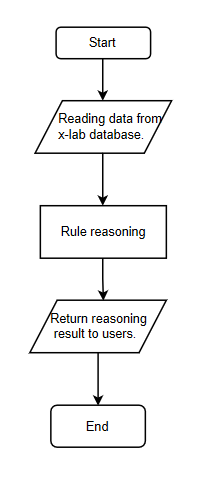
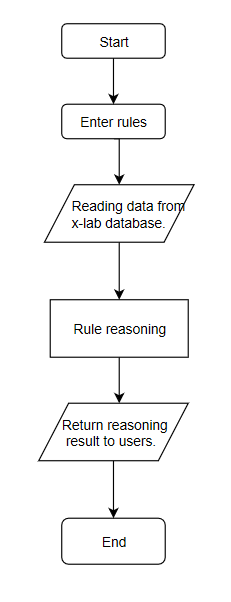
refactor rulereason

Changed region(s): [[0.1493, 0.0311, 0.8657, 0.9627]]

diff --git a/src/main/java/com/tongji/knowledgereasoning/service/RuleReasonerServiceImp.java b/src/main/java/com/tongji/knowledgereasoning/service/RuleReasonerServiceImp.java
@@ -62,7 +62,7 @@ public class RuleReasonerServiceImp implements RuleReasonerService {
 
     }
 
-    public String neo4jReasoning(String rule) {
+    public String neo4jReasoning(String rules) {
 
         Model model = ModelFactory.createDefaultModel();
 
@@ -74,18 +74,41 @@ public class RuleReasonerServiceImp implements RuleReasonerService {
                 String predicate = rs.getString(2);
                 String object = rs.getString(3);
 
-                String[] p = predicate.split("__");
-                predicate = p[p.length - 1];
-                //System.out.println(predicate);
+                if(predicate.equals("ns1__contains")){
+                    predicate = "http://pods/10.60.38.181/constains";
+                }else if(predicate.equals("ns1__deployed_in")){
+                    predicate = "http://pods/10.60.38.181/deployed_in";
+                }else if(predicate.equals("ns1__provides")){
+                    predicate = "http://pods/10.60.38.181/provides";
+                }else if(predicate.equals("ns2__profile")){
+                    predicate = "http://services/10.60.38.181/provides";
+                }else if(predicate.equals("ns3__profile")){
+                    predicate = "http://containers/10.60.38.181/profile";
+                }else if(predicate.equals("ns4__has")){
+                    predicate = "http://environment/10.60.38.181/has";
+                }else if(predicate.equals("ns5__manage")){
+                    predicate = "http://servers/10.60.38.181/manage";
+                }else if(predicate.equals("ns6__supervises")){
+                    predicate = "http://namespace/10.60.38.181/supervises";
+                }else if(predicate.equals("rdfs__domain")){
+                    predicate = "http://www.w3.org/2000/01/rdf-schema#domain";
+                }else if(predicate.equals("rdfs__range")){
+                    predicate = "http://www.w3.org/2000/01/rdf-schema#range";
+                }else if(predicate.equals("rdfs__subClassOf")){
+                    predicate = "http://www.w3.org/2000/01/rdf-schema#subClassOf";
+                }else if(predicate.equals("rdfs__subPropertyOf")){
+                    predicate = "http://www.w3.org/2000/01/rdf-schema#subPropertyOf";
+                }
+
                 //System.out.println(predicate);
                 model.add(model.createResource(subject), model.createProperty(predicate), model.createResource(object));
             }
-            //writeToFile(model,"data/neo4jdata.ttl");
+            writeToFile(model,"data/Neo4jData.ttl");
         } catch (Exception e) {
             e.printStackTrace();
         }
 
-        Model modelAfterReason = reasoner(model, rule);
+        Model modelAfterReason = reasoner(model, rules);
         String triples = TriplesToJson(modelAfterReason);
         String ttlInsert = "CALL semantics.importRDF('file:///F:/IDEA/2019-XLab-KnowledgeReasoning/data/RuleReasoning/RuleReasonResult.ttl','Turtle', {shortenUrls: true})";
         neoDao.updateTriplesInNeo4j(ttlInsert);
@@ -98,30 +121,6 @@ public class RuleReasonerServiceImp implements RuleReasonerService {
         InfModel inf = ModelFactory.createInfModel(reasoner, model);
         return inf.getDeductionsModel();
     }
-
-    /*
-        private Model modelAfterReason(Model model){
-
-            StmtIterator itr = model.listStatements();
-            Model modelAfterReason = ModelFactory.createDefaultModel();
-            while (itr.hasNext()) {
-                Statement nowStatement = itr.nextStatement();
-
-                String subject = nowStatement.getSubject().toString();
-                String predicate = nowStatement.getPredicate().toString();
-                String object = nowStatement.getObject().toString();
-
-                //set predicate
-                predicate=subject.substring(0,subject.indexOf("1"))+"10.60.38.181/"+predicate;
-
-                modelAfterReason.add(modelAfterReason.createResource(subject),
-                        modelAfterReason.createProperty(predicate),
-                        modelAfterReason.createResource(object));
-                writeToFile(modelAfterReason,"data/RuleReasoning/RuleReasonResult.ttl");
-            }
-            return modelAfterReason;
-        }
-     */
 
     private String TriplesToJson(Model model) {
         JSONArray triples = new JSONArray();
@@ -170,4 +169,30 @@ public class RuleReasonerServiceImp implements RuleReasonerService {
         model.write(ruleReasonResult, "TURTLE");    //写入文件,默认是xml方式,可以自己指定
 
     }
+
+
+    /*
+        private Model modelAfterReason(Model model){
+
+            StmtIterator itr = model.listStatements();
+            Model modelAfterReason = ModelFactory.createDefaultModel();
+            while (itr.hasNext()) {
+                Statement nowStatement = itr.nextStatement();
+
+                String subject = nowStatement.getSubject().toString();
+                String predicate = nowStatement.getPredicate().toString();
+                String object = nowStatement.getObject().toString();
+
+                //set predicate
+                predicate=subject.substring(0,subject.indexOf("1"))+"10.60.38.181/"+predicate;
+
+                modelAfterReason.add(modelAfterReason.createResource(subject),
+                        modelAfterReason.createProperty(predicate),
+                        modelAfterReason.createResource(object));
+                writeToFile(modelAfterReason,"data/RuleReasoning/RuleReasonResult.ttl");
+            }
+            return modelAfterReason;
+        }
+     */
+
 }

diff --git a/src/main/java/com/tongji/knowledgereasoning/service/QueryService.java b/src/main/java/com/tongji/knowledgereasoning/service/QueryService.java
@@ -8,6 +8,7 @@ import org.springframework.beans.factory.annotation.Autowired;
 import org.springframework.stereotype.Service;
 
 
+import java.io.ByteArrayOutputStream;
 import java.util.ArrayList;
 import java.util.List;
 
@@ -25,15 +26,37 @@ public class QueryService {
         java.sql.ResultSet rs = neoDao.getTriples();
 
         try {
+
             while (rs.next()) {
                 String subject = rs.getString(1);
                 String predicate = rs.getString(2);
                 String object = rs.getString(3);
 
-//                String[] p = predicate.split("__");
-//                predicate = p[p.length - 1];
-                // System.out.println(predicate);
-                //System.out.println(predicate);
+                if(predicate.equals("ns1__contains")){
+                    predicate = "http://pods/10.60.38.181/constains";
+                }else if(predicate.equals("ns1__deployed_in")){
+                    predicate = "http://pods/10.60.38.181/deployed_in";
+                }else if(predicate.equals("ns1__provides")){
+                    predicate = "http://pods/10.60.38.181/provides";
+                }else if(predicate.equals("ns2__profile")){
+                    predicate = "http://services/10.60.38.181/provides";
+                }else if(predicate.equals("ns3__profile")){
+                    predicate = "http://containers/10.60.38.181/profile";
+                }else if(predicate.equals("ns4__has")){
+                    predicate = "http://environment/10.60.38.181/has";
+                }else if(predicate.equals("ns5__manage")){
+                    predicate = "http://servers/10.60.38.181/manage";
+                }else if(predicate.equals("ns6__supervises")){
+                    predicate = "http://namespace/10.60.38.181/supervises";
+                }else if(predicate.equals("rdfs__domain")){
+                    predicate = "http://www.w3.org/2000/01/rdf-schema#domain";
+                }else if(predicate.equals("rdfs__range")){
+                    predicate = "http://www.w3.org/2000/01/rdf-schema#range";
+                }else if(predicate.equals("rdfs__subClassOf")){
+                    predicate = "http://www.w3.org/2000/01/rdf-schema#subClassOf";
+                }else if(predicate.equals("rdfs__subPropertyOf")){
+                    predicate = "http://www.w3.org/2000/01/rdf-schema#subPropertyOf";
+                }
 
                 model.add(model.createResource(subject), model.createProperty(predicate), model.createResource(object));
             }
@@ -49,8 +72,8 @@ public class QueryService {
 //                        "<http://services/10.60.38.181/sock-shop/orders>" + " ^pods_rel:provides / ( pods_rel:deployed_in* | pods_rel:contains* ) ?o ." +
 //                        "}");
 
-//
-//        Query query = QueryFactory.create(
+
+//        Query querys = QueryFactory.create(
 //                "PREFIX pods_rel: " + "<http://pods/10.60.38.181/> \n" +
 //                        "SELECT * " +
 //                        "{" +
@@ -61,12 +84,20 @@ public class QueryService {
         // 执行查询，获得结果
         QueryExecution qe = QueryExecutionFactory.create(propertyPathQuery, model);
         org.apache.jena.query.ResultSet resultSet = qe.execSelect();//select 类型
-        while (resultSet.hasNext()) {
-            QuerySolution qs = resultSet.next();
-            String object = qs.get("o").toString();
-            queryResult.add(object);
+        if(query.contains("?o")) {
+            while (resultSet.hasNext()) {
+                QuerySolution qs = resultSet.next();
+                String object = qs.get("o").toString();
+                queryResult.add(object);
+            }
+        }else if(query.contains("?s")){
+            while (resultSet.hasNext()) {
+                QuerySolution qs = resultSet.next();
+                String object = qs.get("s").toString();
+                queryResult.add(object);
+            }
         }
-//
+
 //        ByteArrayOutputStream outputStream = new ByteArrayOutputStream();
 //        ResultSetFormatter.outputAsJSON(outputStream, resultSet);
 //        String result = new String(outputStream.toByteArray());

diff --git a/src/main/java/com/tongji/knowledgereasoning/service/MetadataLayerConstructService.java b/src/main/java/com/tongji/knowledgereasoning/service/MetadataLayerConstructService.java
@@ -192,6 +192,46 @@ public class MetadataLayerConstructService {
         //Operations.outputAllTriples(infModel);
 
         System.out.println("\n");
+        //属性路径查询表达式
+        Query propertyPathQuery = QueryFactory.create(
+                "PREFIX pods_rel: " + "<http://pods/10.60.38.181/> \n" +
+                        "SELECT * " +
+                        "{" +
+                        "<http://services/10.60.38.181/sock-shop/orders>" + " ^pods_rel:provides / ( pods_rel:deployed_in* | pods_rel:contains* ) ?o ." +
+                        "}");
+        QueryExecution qe = QueryExecutionFactory.create(propertyPathQuery, infModel);
+        ResultSet rs1 = qe.execSelect();
+        while (rs1.hasNext()) {
+            QuerySolution qs = rs1.next();
+            String object = qs.get("o").toString();
+            System.out.println(object);
+        }
+
+        System.out.println("\n");
+        String rules =
+                "[rule1: (?X <http://pods/10.60.38.181/provides> ?Y) -> (?X <http://10.60.38.181/KGns/relates> ?Y)]\n" +
+                        "[rule2: (?X <http://10.60.38.181/KGns/relates> ?Y) (?X <http://pods/10.60.38.181/deployed_in> ?Z) -> (?Z <http://10.60.38.181/KGns/relates> ?Y)]\n" +
+                        "[rule3: (?X <http://10.60.38.181/KGns/relates> ?Y) (?X <http://pods/10.60.38.181/contains> ?Z) -> (?Z <http://10.60.38.181/KGns/relates> ?Y)]\n";
+
+        Reasoner ruleReasoner = new GenericRuleReasoner(Rule.parseRules(rules));
+        ruleReasoner.setDerivationLogging(true);
+        InfModel inf = ModelFactory.createInfModel(ruleReasoner, infModel);
+        //Operations.outputAllTriples(inf.getDeductionsModel());
+
+        Query query = QueryFactory.create(
+                "PREFIX pods_rel: " + "<http://pods/10.60.38.181/> \n" +
+                        "SELECT * " +
+                        "{" +
+                        "?s ?p <http://services/10.60.38.181/sock-shop/orders> ." +
+                        "}");
+        QueryExecution qe1 = QueryExecutionFactory.create(query, inf.getDeductionsModel());
+        ResultSet rs2 = qe1.execSelect();
+        while (rs2.hasNext()) {
+            QuerySolution qs = rs2.next();
+            String object = qs.get("s").toString();
+            System.out.println(object);
+        }
+
         //写入文件
 //        try {
 //            FileWriter fwriter = new FileWriter("C:/Users/Administrator/Desktop/newOntology.ttl");     //没有文件会自动创建

diff --git a/src/main/java/com/tongji/knowledgereasoning/controller/QueryController.java b/src/main/java/com/tongji/knowledgereasoning/controller/QueryController.java
@@ -23,7 +23,7 @@ public class QueryController {
     @Autowired
     private QueryService queryService;
 
-    @RequestMapping(value = "/query", method = RequestMethod.GET)
+    @RequestMapping(value = "/query", method = RequestMethod.POST)
     public List<String> query(@RequestParam("queryString")String query) {
         return queryService.Query(query);
     }
